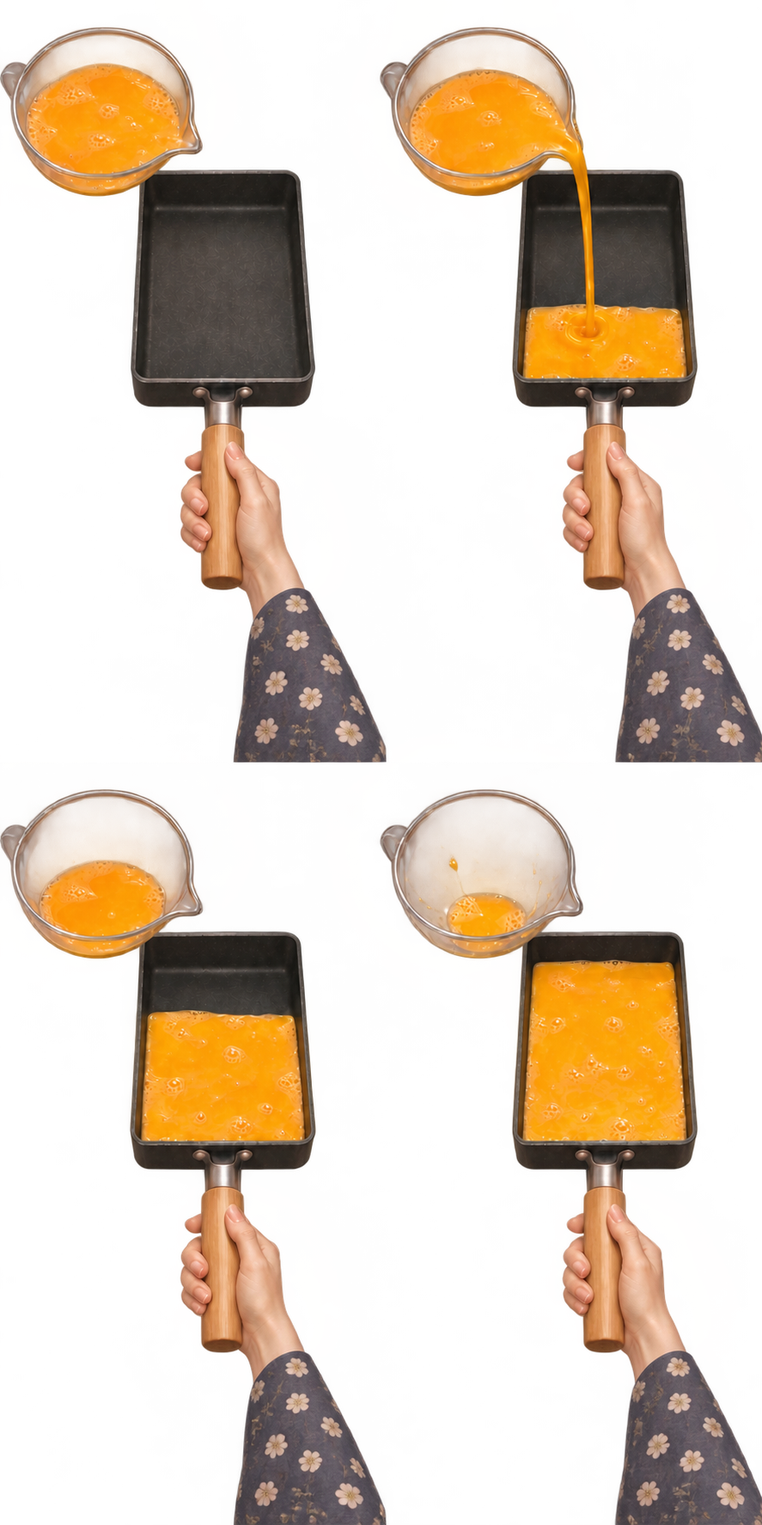
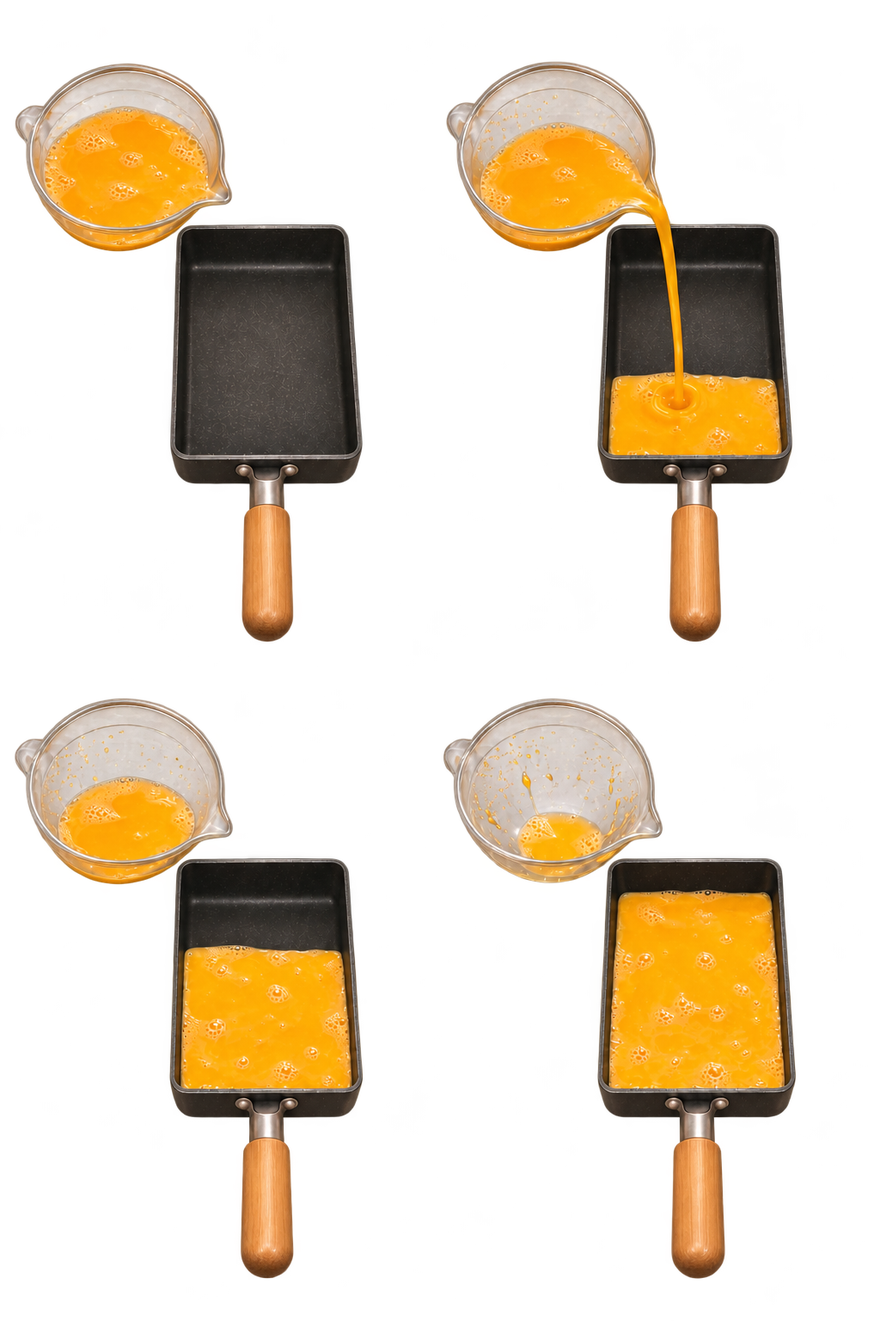
Place gold cues outside wood and restore approved cooking composition

diff --git a/docs/index.html b/docs/index.html
@@ -9,10 +9,10 @@
   <meta name="apple-mobile-web-app-status-bar-style" content="black-translucent">
   <meta name="apple-mobile-web-app-title" content="심야식당">
   <title>심야식당</title>
-  <meta name="app-release" content="20261109-v41-clear-controls">
+  <meta name="app-release" content="20261109-v42-outer-gold-cooking">
   <!-- Hide inactive stages before any external stylesheet or script loads. -->
   <style>[hidden]{display:none!important}html,body{background:#1f160f}dialog:not([open]){display:none}</style>
-  <link rel="manifest" href="./manifest.webmanifest?release=20261109-v41-clear-controls">
+  <link rel="manifest" href="./manifest.webmanifest?release=20261109-v42-outer-gold-cooking">
   <link rel="icon" href="./assets/icon-diner-v31-192.png" type="image/png">
   <link rel="apple-touch-icon" href="./assets/apple-touch-icon-v31.png">
   <link rel="preload" as="image" href="./assets/visitors-a.webp">
@@ -20,41 +20,42 @@
   <link rel="preload" as="image" href="./assets/intro-world.webp">
   <link rel="preload" as="image" href="./assets/decor-real.webp">
   <link rel="preload" as="image" href="./assets/food-clean.webp">
-  <link rel="stylesheet" href="./style.css?release=20261109-v41-clear-controls">
-  <link rel="stylesheet" href="./kitchen.css?release=20261109-v41-clear-controls">
-  <link rel="stylesheet" href="./customer.css?release=20261109-v41-clear-controls">
-  <link rel="stylesheet" href="./motion.css?release=20261109-v41-clear-controls">
-  <link rel="stylesheet" href="./analog.css?release=20261109-v41-clear-controls">
-  <link rel="stylesheet" href="./frames.css?release=20261109-v41-clear-controls">
-  <link rel="stylesheet" href="./tactile-controls.css?release=20261109-v41-clear-controls">
-  <link rel="stylesheet" href="./physical-icons.css?release=20261109-v41-clear-controls">
-  <link rel="stylesheet" href="./polish.css?release=20261109-v41-clear-controls">
-  <link rel="stylesheet" href="./analog-feedback-v25.css?release=20261109-v41-clear-controls">
-  <link rel="stylesheet" href="./location-nav-v25.css?release=20261109-v41-clear-controls">
-  <link rel="stylesheet" href="./mobile-layout-v33.css?release=20261109-v41-clear-controls">
-  <link rel="stylesheet" href="./wood-ui-v35.css?release=20261109-v41-clear-controls">
-  <link rel="stylesheet" href="./materials-v37.css?release=20261109-v41-clear-controls">
-  <link rel="stylesheet" href="./ui-fixes-v38.css?release=20261109-v41-clear-controls">
-  <link rel="stylesheet" href="./ui-fixes-v41.css">
-  <script src="./catalog.js?release=20261109-v41-clear-controls" defer></script>
-  <script src="./stories.js?release=20261109-v41-clear-controls" defer></script>
-  <script src="./scene-assets-v28.js?release=20261109-v41-clear-controls" defer></script>
-  <script src="./cooking-rules.js?release=20261109-v41-clear-controls" defer></script>
-  <script src="./furnishings.js?release=20261109-v41-clear-controls" defer></script>
-  <script src="./engine.js?release=20261109-v41-clear-controls" defer></script>
-  <script src="./morph.js?release=20261109-v41-clear-controls" defer></script>
-  <script src="./rain.js?release=20261109-v41-clear-controls" defer></script>
-  <script src="./scene.js?release=20261109-v41-clear-controls" defer></script>
-  <script src="./atmosphere.js?release=20261109-v41-clear-controls" defer></script>
-  <script src="./daylight.js?release=20261109-v41-clear-controls" defer></script>
-  <script src="./gestures.js?release=20261109-v41-clear-controls" defer></script>
-  <script src="./audio.js?release=20261109-v41-clear-controls" defer></script>
-  <script src="./music.js?release=20261109-v41-clear-controls" defer></script>
-  <script src="./cooking-layout.js?release=20261109-v41-clear-controls" defer></script>
-  <script src="./dialogue-motion.js?release=20261109-v41-clear-controls" defer></script>
-  <script src="./kitchen.js?release=20261109-v41-clear-controls" defer></script>
-  <script src="./game.js?release=20261109-v41-clear-controls" defer></script>
-  <script src="./pwa.js?release=20261109-v41-clear-controls" defer></script>
+  <link rel="stylesheet" href="./style.css?release=20261109-v42-outer-gold-cooking">
+  <link rel="stylesheet" href="./kitchen.css?release=20261109-v42-outer-gold-cooking">
+  <link rel="stylesheet" href="./customer.css?release=20261109-v42-outer-gold-cooking">
+  <link rel="stylesheet" href="./motion.css?release=20261109-v42-outer-gold-cooking">
+  <link rel="stylesheet" href="./analog.css?release=20261109-v42-outer-gold-cooking">
+  <link rel="stylesheet" href="./frames.css?release=20261109-v42-outer-gold-cooking">
+  <link rel="stylesheet" href="./tactile-controls.css?release=20261109-v42-outer-gold-cooking">
+  <link rel="stylesheet" href="./physical-icons.css?release=20261109-v42-outer-gold-cooking">
+  <link rel="stylesheet" href="./polish.css?release=20261109-v42-outer-gold-cooking">
+  <link rel="stylesheet" href="./analog-feedback-v25.css?release=20261109-v42-outer-gold-cooking">
+  <link rel="stylesheet" href="./location-nav-v25.css?release=20261109-v42-outer-gold-cooking">
+  <link rel="stylesheet" href="./mobile-layout-v33.css?release=20261109-v42-outer-gold-cooking">
+  <link rel="stylesheet" href="./wood-ui-v35.css?release=20261109-v42-outer-gold-cooking">
+  <link rel="stylesheet" href="./materials-v37.css?release=20261109-v42-outer-gold-cooking">
+  <link rel="stylesheet" href="./ui-fixes-v38.css?release=20261109-v42-outer-gold-cooking">
+  <link rel="stylesheet" href="./ui-fixes-v41.css?release=20261109-v42-outer-gold-cooking">
+  <link rel="stylesheet" href="./ui-fixes-v42.css?release=20261109-v42-outer-gold-cooking">
+  <script src="./catalog.js?release=20261109-v42-outer-gold-cooking" defer></script>
+  <script src="./stories.js?release=20261109-v42-outer-gold-cooking" defer></script>
+  <script src="./scene-assets-v28.js?release=20261109-v42-outer-gold-cooking" defer></script>
+  <script src="./cooking-rules.js?release=20261109-v42-outer-gold-cooking" defer></script>
+  <script src="./furnishings.js?release=20261109-v42-outer-gold-cooking" defer></script>
+  <script src="./engine.js?release=20261109-v42-outer-gold-cooking" defer></script>
+  <script src="./morph.js?release=20261109-v42-outer-gold-cooking" defer></script>
+  <script src="./rain.js?release=20261109-v42-outer-gold-cooking" defer></script>
+  <script src="./scene.js?release=20261109-v42-outer-gold-cooking" defer></script>
+  <script src="./atmosphere.js?release=20261109-v42-outer-gold-cooking" defer></script>
+  <script src="./daylight.js?release=20261109-v42-outer-gold-cooking" defer></script>
+  <script src="./gestures.js?release=20261109-v42-outer-gold-cooking" defer></script>
+  <script src="./audio.js?release=20261109-v42-outer-gold-cooking" defer></script>
+  <script src="./music.js?release=20261109-v42-outer-gold-cooking" defer></script>
+  <script src="./cooking-layout.js?release=20261109-v42-outer-gold-cooking" defer></script>
+  <script src="./dialogue-motion.js?release=20261109-v42-outer-gold-cooking" defer></script>
+  <script src="./kitchen.js?release=20261109-v42-outer-gold-cooking" defer></script>
+  <script src="./game.js?release=20261109-v42-outer-gold-cooking" defer></script>
+  <script src="./pwa.js?release=20261109-v42-outer-gold-cooking" defer></script>
 </head>
 <body>
   <main id="app" class="game-app" hidden aria-label="심야식당 게임">

diff --git a/docs/sw.js b/docs/sw.js
@@ -1,10 +1,11 @@
 /* Atomic app-shell updates, including the new portrait cinematic. */
-const RELEASE = '20261109-v41-clear-controls';
+const RELEASE = '20261109-v42-outer-gold-cooking';
 const CACHE_PREFIX = 'midnight-diner-pwa-';
 const VERSION = CACHE_PREFIX + RELEASE;
 const ROOT = new URL('./', self.location.href);
 const INDEX = new URL('index.html', ROOT).href;
 const FILES = [
+  'ui-fixes-v42.css',
   'ui-fixes-v41.css',
   'assets/foreground-v39-plate-onigiri.webp',
   'assets/foreground-v39-plate-tamago.webp',
@@ -376,18 +377,19 @@ const FILES = [
 ].map(path => new URL(path, ROOT).href);
 // Generated by tools/set-release.cjs. Only changed bytes are downloaded again.
 const FILE_HASHES = {
[18 lines of base64/hex data omitted]
@@ -427,9 +429,9 @@ const FILE_HASHES = {
[11 lines of base64/hex data omitted]
@@ -466,7 +468,7 @@ const FILE_HASHES = {
[8 lines of base64/hex data omitted]

diff --git a/docs/cooking-layout.js b/docs/cooking-layout.js
@@ -10,21 +10,27 @@ function frame(width,height,{portrait=true,focus=.58,span=.68,start=focus-span/2
 }
 function source(file){
  const key=file.replace('foreground-v39-','');
- const extended=file.startsWith('foreground-v39-')&&['prep-rice','prep-egg','measure-miso','core-portion','core-shape','core-beat','core-pour','core-broth','core-wrap','core-wrap-raw','core-wrap-burnt'].includes(key);
+ const extended=file.startsWith('foreground-v39-')&&['prep-rice','prep-egg','measure-miso','core-portion','core-shape','core-beat','core-broth','core-wrap','core-wrap-raw','core-wrap-burnt'].includes(key);
  const offsets={'prep-rice':.29,'prep-egg':.21,'measure-miso':.24,'core-portion':.4,'core-shape':.26,'core-beat':.25,'core-pour':.24,'core-broth':.24,'core-wrap':.28,'core-wrap-raw':.24,'core-wrap-burnt':.12};
  return extended?{ratio:.5,scale:2,offset:offsets[key]}:{ratio:2/3,scale:1.5,offset:.4};
 }
 function focus(file){
  if(file.startsWith('foreground-v39-')){
-  const key=file.replace('foreground-v39-','');if(key.startsWith('plate-'))return{focus:.55,span:.90,...source(file)};const spec={
+  const key=file.replace('foreground-v39-','');if(key.startsWith('plate-'))return{focus:.50,span:.88,start:.06,end:.94,...source(file)};const spec={
    'measure-miso':[.37,.40,.17,.55],'measure-dashi':[.65,.52],
    'core-portion':[.45,.62,.14,.665],'core-shape':[.38,.42,.22,.54],'core-beat':[.375,.45,.15,.59],
-   'core-pour':[.37,.68,.03,.54],'core-broth':[.36,.68,.015,.545],'core-wrap':[.39,.43,.25,.56],'core-wrap-raw':[.35,.4,.20,.56],'core-wrap-burnt':[.32,.4,.15,.58],
+   'core-pour':[.52,.90,.07,.97],'core-broth':[.36,.68,.015,.545],'core-wrap':[.39,.43,.25,.56],'core-wrap-raw':[.35,.4,.20,.56],'core-wrap-burnt':[.32,.4,.15,.58],
    'prep-rice':[.395,.49,.16,.62],'prep-egg':[.36,.50,.16,.62],'prep-nori':[.55,.55],
    'prep-pork':[.56,.56],'prep-salmon':[.60,.48],'prep-vegetables':[.62,.57],'prep-scallion':[.61,.62]
   }[key];return{focus:spec[0],span:spec[1],...(spec.length>2?{start:spec[2],end:spec[3]}:{}),...source(file)};
  }
  if(file.includes('measure'))return{focus:.65,span:.56};if(file.includes('portion'))return{focus:.59,span:.76};if(file.includes('broth'))return{focus:.59,span:.71};return{focus:.59,span:.7};
+}
+// Approved v42 composition: phase at 20% of viewport, title directly below it.
+// Keep caption placement separate from food fitting; never lower it to fit sleeves.
+function workspace(width,height,{viewportHeight=height,areaTop=0,navBottom=0,footerTop=height,separateColumn=false,step}={}){
+ const captionTop=separateColumn?14:Math.max(navBottom-areaTop+20,viewportHeight*.20-areaTop);
+ return{captionTop,safeTop:captionTop+72,safeBottom:footerTop-(['assemble','pour'].includes(step)?36:60),center:height*(separateColumn?.53:step==='assemble'?.58:.60),titleTop:captionTop+24.5};
 }
 function room(width,height){
  const scale=Math.max(width/941,height/1672),artWidth=941*scale,artHeight=1672*scale,left=(width-artWidth)/2,top=(height-artHeight)/2;
@@ -41,5 +47,5 @@ function cabinet(width,height){
  const lower=Math.max(0,h*.763+12-height),upper=Math.max(0,h*.158-6),crop=cover?Math.min(upper,Math.max(lower,(h-height)/2)):0;
  return{width:w,height:h,top:-crop,cover};
 }
-const api={frame,focus,source,room,cabinet};if(typeof module!=='undefined')module.exports=api;else window.MidnightCookingLayout=api;
+const api={frame,focus,source,workspace,room,cabinet};if(typeof module!=='undefined')module.exports=api;else window.MidnightCookingLayout=api;
 })();

diff --git a/docs/ui-fixes-v42.css b/docs/ui-fixes-v42.css
@@ -1,0 +1,40 @@
+/* The approved cue lives OUTSIDE the complete brown edge, never on its face.
+   One shared ring serves every existing next-action/gold attention state. */
+:root{--action-gold:#ffdb79;--action-gold-glow:0 0 5px 1px #fff0b8,0 0 12px 4px #ffc95ea6,0 0 23px 6px #eaa83a55}
+:is(#app #night-action,#guest-dialog #talk-next,#report-content #report-next,#kitchen-screen #kitchen-footer .primary,#stock-prep .primary,#app #resume-kitchen):not(:disabled),
+#app .customer .customer-name.order-ready,
+#app .needs-payment .customer-payment,
+#kitchen-screen .kitchen-room-art .room-hotspot.station-next span{
+ overflow:visible!important;border:3px solid #3b2414!important;border-image:none!important;
+ box-shadow:inset 0 -2px #160c0880,0 3px 0 #24150b!important;
+ animation:none!important;scale:none!important;translate:none!important;filter:none!important;text-shadow:none!important;
+}
+:is(#app #night-action,#guest-dialog #talk-next,#report-content #report-next,#kitchen-screen #kitchen-footer .primary,#stock-prep .primary,#app #resume-kitchen):not(:disabled)::after,
+#app .customer .customer-name.order-ready::after,
+#app .needs-payment .customer-payment::after,
+#kitchen-screen .kitchen-room-art .room-hotspot.station-next span::after,
+#kitchen-screen .door-needed[aria-expanded=false] .door-handle-cue::after{
+ content:''!important;display:block!important;position:absolute;inset:-9px;
+ border:4px solid var(--action-gold);border-radius:7px;background:none!important;
+ box-shadow:var(--action-gold-glow)!important;pointer-events:none;animation:none!important;
+ clip-path:none!important;mask:none!important;-webkit-mask:none!important;opacity:1;z-index:3;
+}
+/* Remove superseded internal tracing, including the whole-fridge outline. */
+#app .customer-name.order-ready::before,#kitchen-screen .fridge-door-touch.first-door-hint::before{content:none!important}
+#kitchen-screen .fridge-door-touch.first-door-hint{box-shadow:none}
+#kitchen-screen .door-needed[aria-expanded=false] .door-handle-cue{animation:none;box-shadow:none}
+#kitchen-screen .door-needed[aria-expanded=false] .door-handle-cue::after{border-radius:40%}
+#kitchen-screen .room-hotspot.station-next{overflow:visible;animation:none}
+#app .needs-payment .customer-payment::after{animation:outer-payment-light 2.4s ease-in-out infinite!important}
+@keyframes outer-payment-light{50%{opacity:.72}}
+@media(prefers-reduced-motion:reduce){#app .needs-payment .customer-payment::after{animation:none!important}}
+/* Leave space for the external ring instead of clipping it at fixed footers. */
+#kitchen-screen #kitchen-footer{overflow:visible;padding:12px 18px calc(var(--safe-bottom) + 16px)}
+#guest-dialog .talk-card{overflow:visible}
+#kitchen-screen #kitchen-content .process-view .process-heading{gap:5px}
+/* Captions fit a single line even on the narrowest supported phone. */
+#kitchen-screen #kitchen-content .process-view .process-heading h3{font-size:clamp(23px,6vw,28px)}
+@media(orientation:landscape) and (max-height:550px){
+ #kitchen-screen #kitchen-footer{padding:12px 16px calc(var(--safe-bottom) + 12px)}
+ #kitchen-screen #kitchen-content .process-view .process-heading h3{font-size:21px}
+}

diff --git a/docs/kitchen.js b/docs/kitchen.js
@@ -143,18 +143,18 @@
       area.style.setProperty('--heat-caption-top',`${captionTop}px`);return;
     }
     const workspace=document.querySelector('.process-view'),scene=workspace?.querySelector('.prep-scene');
-    const areaBox=area.getBoundingClientRect(),navBox=$('location-nav').getBoundingClientRect(),captionTop=separateColumn?14:Math.max(navBox.bottom-areaBox.top+24,area.clientHeight*.28),safeBottom=footerTop-60;
+    const areaBox=area.getBoundingClientRect(),navBox=$('location-nav').getBoundingClientRect(),placement=L.workspace(area.clientWidth,area.clientHeight,{viewportHeight:innerHeight,areaTop:areaBox.top,navBottom:navBox.bottom,footerTop,separateColumn,step:scene?.classList.contains('assemble')?'assemble':scene?.classList.contains('pour')?'pour':undefined}),{captionTop,safeBottom}=placement;
     area.style.setProperty('--process-caption-top',`${captionTop}px`);
     if(scene){
       if(scene.classList.contains('stove-unit')){const top=captionTop+104,width=Math.min(area.clientWidth,Math.max(1,safeBottom-top)/1.2);scene.style.cssText=`position:absolute;left:${(area.clientWidth-width)/2}px;top:${top}px;width:${width}px`;return;}
-      const portrait=portraitStep(),art=visual(step()),file=R.nightImage(order().recipe,art.file),box=L.frame(area.clientWidth,area.clientHeight,{portrait,...L.focus(file),safeTop:captionTop+82,safeBottom,center:separateColumn?area.clientHeight*.53:area.clientHeight*.60});
+      const portrait=portraitStep(),art=visual(step()),file=R.nightImage(order().recipe,art.file),box=L.frame(area.clientWidth,area.clientHeight,{portrait,...L.focus(file),safeTop:placement.safeTop,safeBottom,center:placement.center});
       for(const name of ['width','height','left','top'])scene.style[name]=`${box[name]}px`;
       workspace.dataset.foodCenter=String(box.center);workspace.dataset.sourceAspect=String(portrait?L.source(file).ratio:1);
     }
     const completed=area.querySelector('.completed-dish');
     if(completed){
       const plate=completed.querySelector('.original-ready'),art=plate.querySelector('.food-art'),heading=completed.querySelector('h3');
-      const titleTop=separateColumn?14:Math.max(12,innerHeight*.28-areaRect.top);
+      const titleTop=placement.titleTop;
       heading.style.top=`${titleTop}px`;
       const ratioParts=getComputedStyle(art).getPropertyValue('--food-ratio').trim().split('/'),ratio=(Number(ratioParts[0])||1)/(Number(ratioParts[1])||1);
       const above=titleTop+heading.getBoundingClientRect().height+16,below=area.clientHeight-94;

diff --git a/docs/preview.html b/docs/preview.html
@@ -13,7 +13,7 @@
   <script>
     // Preview uses release-specific script URLs so a previously installed worker cannot serve an old game.
     (async () => {
-      const release = '20261109-v41-clear-controls', root = new URL('./', location.href);
+      const release = '20261109-v42-outer-gold-cooking', root = new URL('./', location.href);
       const response = await fetch(new URL(`index.html?preview-release=${release}`, root), {cache:'no-store'});
       if (!response.ok) throw new Error('load');
       const doc = new DOMParser().parseFromString(await response.text(), 'text/html');

diff --git a/planning/outer-gold-cooking-v42.md b/planning/outer-gold-cooking-v42.md
@@ -1,0 +1,29 @@
+# v42 · 바깥 금빛 띠와 조리 위치 고정
+
+사용자는 시안 확인 후 다른 수정사항까지 반영하도록 승인했다. 시안을 만드는 동안에는 게임 소스와 배포를 바꾸지 않았고, 승인 이후에만 이 변경을 반영했다.
+
+## 화면
+
+- 금빛 띠는 완성된 갈색 테두리 바깥에 둔다. 기본 테두리는 갈색3px, 외부 링은4px이며, `inset:-9px`로 갈색 테두리와 분리한다. 광량은 링 외부의 그림자로 만든다. 버튼과 글자를 확대·이동하거나 글자에 광택을 중첩하지 않는다.
+- 적용 범위: 영업 시작/마감, 손님 대화의 다음 동작, 보고서의 다음 밤, 조리 진행/서빙, 재료 준비, 기존 이어하기 표찰, 손님 주문 준비 상태패, 결제 영수증, 다음 작업대 표찰, 냉장고의 필요한 문 손잡이. 비활성 버튼·완료된 주문에는 링을 표시하지 않는다. 붉은 알림등은 그대로 유지한다. 결제 영수증은 외부 링만 부드럽게 빛나며 동작 줄이기에서는 멈춘다.
+- 냉장고 전체를 감싸던 과거 트레이스는 제거하고 실제 문 손잡이만 강조한다.
+- 조리 위치는 `MidnightCookingLayout.workspace`에서 계산한다. 393×852에서 단계 표기 위쪽은170px, 실제 제목 상단은 약195px이다. 높은 안전영역이나 짧은 화면에서는 이동 메뉴 아래 여유를 우선한다. 음식 크기·단계가 달라도 제목 위치는 같다. 완성 제목도 같은 기준이다. 가로 화면은 기존의 왼쪽 조작/오른쪽 음식 배치를 유지한다.
+- 서빙은 화면 하단의 불필요한 예약 공간을 줄여 음식·접시를 키운다. 음식과 도구를 별도로 늘이거나 찌그러뜨리지 않는다. 파 달걀부침은 원본 자체에서 잘렸던 팬 손잡이를 온전하게 복원했다.
+- 달걀물 붓기는 예전의 유리 그릇과 사각 팬, 눈에 보이는 달걀물 줄기가 있는 네 단계 구도로 복원한다. 검토한 복원 시안에 따라 바탕을 분리하고 손잡이 끝을 온전하게 표시했다. 모든 동작은 하나의 고정 도마 위에서 진행하며 그림/가이드/입력의 좌표 변환을 공유한다.
+
+## 이미지 출처와 범위
+
+기존 승인 그림을 OpenAI image_gen으로 편집했다. 새 메뉴 사진으로 범위를 확장하지 않았다. RGBA PNG를 무손실 WebP로 인코딩했으며 생성 원본은 보존했다.
+
+| 게임 파일 | 생성 원본 | 편집 기준 |
+| --- | --- | --- |
+| `docs/assets/foreground-v39-plate-negi_omelette.webp` | `exec-3257ccc1-ff4d-4b3a-8ac4-822c0217282d.png` | 기존 파 달걀부침 투명 아틀라스, 팬 손잡이 전체와 타일 여백 복구 |
+| `docs/assets/foreground-v39-core-pour.webp` | `exec-a65638e7-b710-452c-afbf-9beab01f6253.png` | 기존 `portrait-v29-core-pour.webp`의 구도·액체 동작 복원, 배경 분리와 손잡이 연장 |
+
+두 파일은1024×1536의2×2 아틀라스이며 각 프레임은2:3이다. 붓기 파일의 예전1:2 확장 소매 좌표를 재사용하지 않는다. 새 그림은 기존의 승인된 다섯 요리 경로에서만 사용한다. 인트로, 나머지 요리 사진, 게임 경제/저장 형식과 음원은 바꾸지 않는다. 별도의 법적 권리 보장은 하지 않는다.
+
+## 검증
+
+규칙/저장/오프라인 무결성 테스트와 브라우저에서 실제 동작을 검증한다. 금빛 위치·비활성 해제·주문/결제/손잡이 상태, 320/393/430px의 제목 고정, 실제 붓기 중간 프레임/완료/재실행 복구를 회귀 검증한다. 기존 조리 화면 전체와 가로 화면, 안전영역, 투명 원본 비율·칼 소매, 대화/종이 재질과 오프라인 미디어 범위 응답도 확인한다.
+
+실행 결과: Node 테스트120개 통과. 브라우저에서100개 메뉴의673개 손질/가열/완성 상태, 320×568·393×734·393×852(안전영역 포함)·430×932·852×393 배치 통과. 승인된 다섯 요리의27개 준비/옮기기 장면과20종 투명 원본, 실제 된장/다시 동작·칼질, 대화와 종이 재질, 새 금빛/붓기 회귀 검증 통과. 기존v34에서 자동 업데이트 후 저장된 자금·완성 요리 유지, 최신 셸의 오프라인 재실행과MP4/MP3 byte-range 응답도 통과했다.

diff --git a/AGENTS.md b/AGENTS.md
@@ -160,3 +160,6 @@
 - v40 supersedes v38 dialogue sections: remove the entire guest information/details disclosure (including 보기/접기 and the stored-fact rows) and all reply section headings (내가 할 말/더 나눌 이야기), divider lines and their space from the conversation UI. Keep dialogue and actionable reply buttons directly together; retain learned facts in saved game state. Do not rename or restyle these removed headings back into view.
 
 - v41: knife hands must overflow the source cook-object so extended sleeves are clipped only at the viewport, including during cuts. Lower cooking/completion captions to about28% portrait viewport height with23–28px titles and13px step labels; keep the food anchor independent. Physical primary buttons use a stationary single muted brass edge and shallow wood depth, no pulsing scale/translate, blurred glow, overlapping text shadow or synthesized bold.
+
+- v42 supersedes the v41 caption/brass-edge placement. The user reviewed the mockups and approved proceeding: preparation phase labels begin at20% of portrait viewport height (or below the navigation when needed), and the actual title begins24.5px below that at the approved13px phase text/5px gap. At393×852 this is y170/y195. `MidnightCookingLayout.workspace` is the single placement source; never lower titles to fit an image or move them as part of unrelated releases. Completion uses the same title anchor. Keep image placement independent, enlarge transfer scenes and preserve native proportions.
+- All existing gold attention cues (primary next actions, ready guest plaques, payment receipts, next-appliance labels and needed refrigerator handles) use the approved4px luminous ring entirely OUTSIDE the complete brown border with a visible gap. Never restore an internal gold stripe, trace or inset gold glow. Keep body/text stationary; payment may softly shimmer in its external ring only. The refrigerator cue surrounds its physical handle, never the whole cabinet. The approved v42 artwork repairs only the scallion-omelette plating handle and restores the earlier hand-free egg-pouring composition/action for the existing five-dish foreground gate, with genuine alpha and a fixed board. Do not expand photo production beyond those five dishes.

diff --git a/README.md b/README.md
@@ -1,5 +1,7 @@
 # 심야식당 PWA
 
+v42는 승인된 시안에 맞춰 금빛 안내를 갈색 테두리 바깥의 더 굵고 밝은 띠로 통일합니다. 조리 제목 위치를 고정하고, 서빙 그림을 키워 팬 손잡이 잘림을 없앴으며, 이전 달걀물 붓기 구도와 동작을 복원했습니다. [변경 범위·그림 출처·검증](planning/outer-gold-cooking-v42.md).
+
 메인 주소에서 설치 없이 바로 실행하는 전체 화면 식당 운영 게임입니다. 브라우저와 설치한 앱 모두 **세로형 인트로 → 전체 화면 식당** 순서로 실행됩니다. 설치는 설정에서 선택할 수 있습니다.
 
 **게임 시작:** https://rosagkim.github.io/midnight-diner/

diff --git a/planning/README.md b/planning/README.md
@@ -6,6 +6,7 @@
 
 | 문서 | 용도 | 상태 |
 | --- | --- | --- |
+| [바깥 금빛 띠와 조리 위치 고정](outer-gold-cooking-v42.md) | 승인 시안 반영 범위, 그림 출처, 제목 좌표와 검증 | v42 |
 | [세로 인트로 제작 기록](intro-production.md) | 실사풍 2.5D 화면, 새 여성 음성·직접 합성한 소리와 출처 | 제작·검증 |
 | [게임 방향과 첫 플레이 버전](game-design.md) | 핵심 순환, 참고 영상 인트로, 구현 범위와 다음 단계 | 첫 구현 |
 | [원작 조사](research/original-work.md) | 작품 설정, 주요 인물, 음식, 매체 구분, 출처 및 조사 한계 | 공개 웹 자료 조사 |
